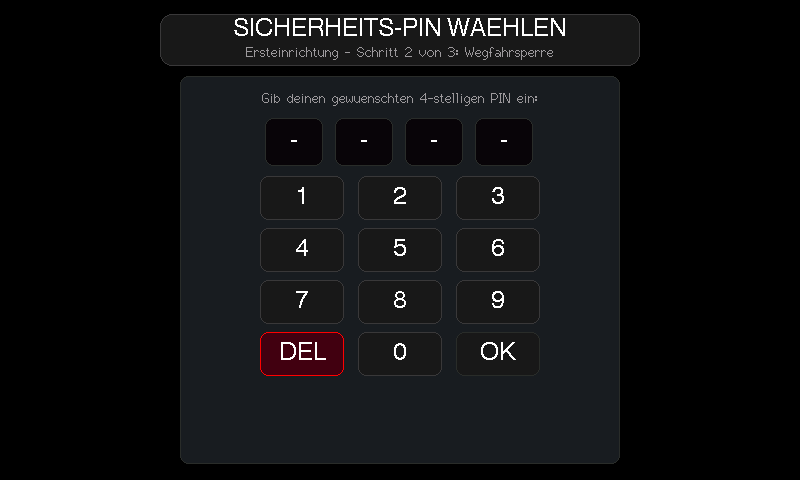
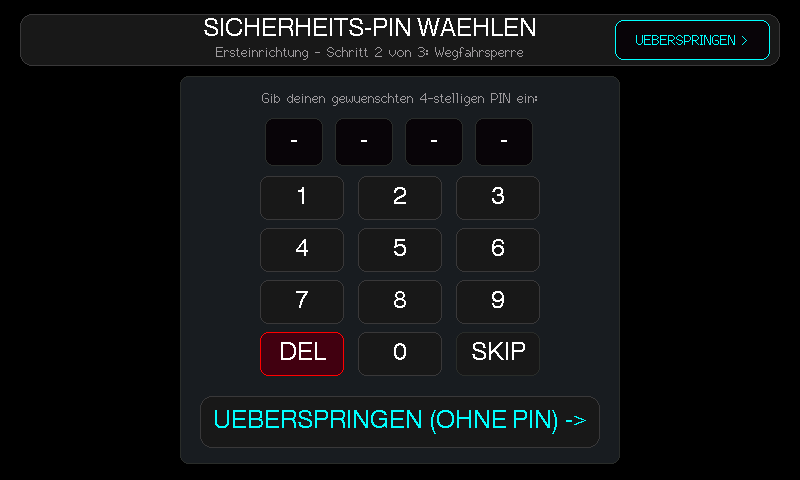
feat(wizard): add skip option for PIN setup and update guide text

diff --git a/src/dash_renderer.cpp b/src/dash_renderer.cpp
@@ -3422,7 +3422,7 @@ void DashboardRenderer::renderSetupWizard(const DashTelemetry &telemetry) {
         _canvas->setFont(&fonts::Font2);
         _canvas->drawString("Im Fahr-Dashboard oben rechts auf das Batterie / Profil-Badge tippen!", 38, 126);
         _canvas->setTextColor(COLOR_MUTED_GRAY, COLOR_SURFACE);
-        _canvas->drawString("Hier kannst du jederzeit Strom-Limits (Ampere), Speed, Display-Styles & PIN anpassen.", 38, 154);
+        _canvas->drawString("Hier kannst du Geschwindigkeit (km/h), Leistung (Watt), Display & PIN anpassen.", 38, 154);
         _canvas->drawString("Oder jederzeit zurueckkehren mit einem Klick auf [< DASH] oben links.", 38, 178);
 
         // Card 2: Wie aktiviere ich Tuning & Race-Modus?
@@ -3449,15 +3449,23 @@ void DashboardRenderer::renderSetupWizard(const DashTelemetry &telemetry) {
     }
     else if (_wizard_step == 1) {
         // STEP 2 OF 3: CHOOSE SECURITY PIN
-        _canvas->fillRoundRect(160, 14, 480, 52, 12, 0x18C3);
-        _canvas->drawRoundRect(160, 14, 480, 52, 12, 0x39C7);
+        _canvas->fillRoundRect(20, 14, 760, 52, 12, 0x18C3);
+        _canvas->drawRoundRect(20, 14, 760, 52, 12, 0x39C7);
         _canvas->setTextColor(COLOR_WHITE, 0x18C3);
         _canvas->setTextDatum(textdatum_t::middle_center);
         _canvas->setFont(&fonts::Font4);
-        _canvas->drawString("SICHERHEITS-PIN WAEHLEN", 400, 30);
+        _canvas->drawString("SICHERHEITS-PIN WAEHLEN", 370, 30);
         _canvas->setFont(&fonts::Font2);
         _canvas->setTextColor(COLOR_MUTED_GRAY, 0x18C3);
-        _canvas->drawString("Ersteinrichtung - Schritt 2 von 3: Wegfahrsperre", 400, 52);
+        _canvas->drawString("Ersteinrichtung - Schritt 2 von 3: Wegfahrsperre", 370, 52);
+
+        // Top-Right [ UEBERSPRINGEN ] button
+        _canvas->fillRoundRect(615, 20, 155, 40, 8, 0x0821);
+        _canvas->drawRoundRect(615, 20, 155, 40, 8, COLOR_CYAN);
+        _canvas->setTextColor(COLOR_CYAN, 0x0821);
+        _canvas->setFont(&fonts::Font2);
+        _canvas->setTextDatum(textdatum_t::middle_center);
+        _canvas->drawString("UEBERSPRINGEN >", 692, 40);
 
         // PIN Keypad Card
         int mx = 180, my = 76, mw = 440, mh = 388;
@@ -3508,20 +3516,28 @@ void DashboardRenderer::renderSetupWizard(const DashTelemetry &telemetry) {
                 _canvas->drawRoundRect(bx, by, kw, kh, 8, border);
                 _canvas->setTextColor(COLOR_WHITE, bg);
                 _canvas->setFont(&fonts::Font4);
-                char str[4] = { key, '\0' };
+                char str[8] = { key, '\0' };
                 if (key == '<') strcpy(str, "DEL");
-                else if (key == '#') strcpy(str, "OK");
+                else if (key == '#') strcpy(str, (pinLen == 4) ? "OK" : "SKIP");
                 _canvas->drawString(str, bx + kw / 2, by + kh / 2);
             }
         }
 
-        // Bottom continue button
+        // Bottom continue / skip button
         if (pinLen == 4) {
             _canvas->fillRoundRect(mx + 20, 396, mw - 40, 52, 12, 0x03E0);
             _canvas->drawRoundRect(mx + 20, 396, mw - 40, 52, 12, COLOR_GREEN);
             _canvas->setTextColor(COLOR_WHITE, 0x03E0);
             _canvas->setFont(&fonts::Font4);
+            _canvas->setTextDatum(textdatum_t::middle_center);
             _canvas->drawString("PIN UEBERNEHMEN & WEITER ->", 400, 422);
+        } else {
+            _canvas->fillRoundRect(mx + 20, 396, mw - 40, 52, 12, 0x18C3);
+            _canvas->drawRoundRect(mx + 20, 396, mw - 40, 52, 12, 0x39C7);
+            _canvas->setTextColor(COLOR_CYAN, 0x18C3);
+            _canvas->setFont(&fonts::Font4);
+            _canvas->setTextDatum(textdatum_t::middle_center);
+            _canvas->drawString("UEBERSPRINGEN (OHNE PIN) ->", 400, 422);
         }
     }
     else if (_wizard_step == 2) {
@@ -3615,6 +3631,17 @@ bool DashboardRenderer::handleWizardTouch(int16_t tx, int16_t ty, DashTelemetry 
     else if (_wizard_step == 1) {
         int mx = 180, mw = 440;
 
+        // 1. Top-Right [ UEBERSPRINGEN > ] Button
+        if (tx >= 600 && tx <= 780 && ty >= 14 && ty <= 68) {
+            Settings.get().pin_lock_enabled = false;
+            Settings.save();
+            _wizard_step = 2;
+            telemetry.wizard_step = 2;
+            _screen_dirty = true;
+            return true;
+        }
+
+        // 2. Keypad buttons
         int c = -1;
         if (tx >= 240 && tx < 351) c = 0;
         else if (tx >= 351 && tx < 449) c = 1;
@@ -3641,9 +3668,16 @@ bool DashboardRenderer::handleWizardTouch(int16_t tx, int16_t ty, DashTelemetry 
                     strncpy(telemetry.wizard_pin_buf, _wizard_pin_buf, sizeof(telemetry.wizard_pin_buf));
                     _screen_dirty = true;
                 }
-            } else if (key == '#') { // OK / Continue
+            } else if (key == '#') { // OK / Continue / Skip
                 if (len == 4) {
                     strncpy(Settings.get().pin_code, _wizard_pin_buf, sizeof(Settings.get().pin_code));
+                    Settings.get().pin_lock_enabled = true;
+                    Settings.save();
+                    _wizard_step = 2;
+                    telemetry.wizard_step = 2;
+                    _screen_dirty = true;
+                } else if (len == 0) {
+                    Settings.get().pin_lock_enabled = false;
                     Settings.save();
                     _wizard_step = 2;
                     telemetry.wizard_step = 2;
@@ -3660,9 +3694,14 @@ bool DashboardRenderer::handleWizardTouch(int16_t tx, int16_t ty, DashTelemetry 
             return true;
         }
 
-        // Bottom continue button
-        if (strlen(_wizard_pin_buf) == 4 && tx >= mx + 10 && tx <= mx + mw - 10 && ty >= 390 && ty <= 455) {
-            strncpy(Settings.get().pin_code, _wizard_pin_buf, sizeof(Settings.get().pin_code));
+        // 3. Bottom continue / skip button
+        if (tx >= mx + 10 && tx <= mx + mw - 10 && ty >= 390 && ty <= 455) {
+            if (strlen(_wizard_pin_buf) == 4) {
+                strncpy(Settings.get().pin_code, _wizard_pin_buf, sizeof(Settings.get().pin_code));
+                Settings.get().pin_lock_enabled = true;
+            } else {
+                Settings.get().pin_lock_enabled = false;
+            }
             Settings.save();
             _wizard_step = 2;
             telemetry.wizard_step = 2;
